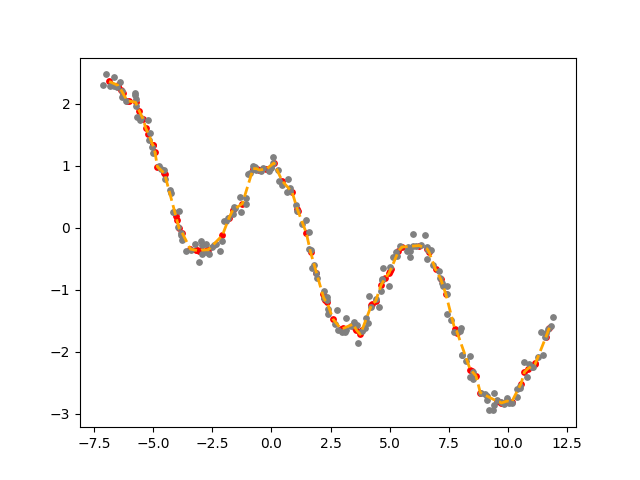
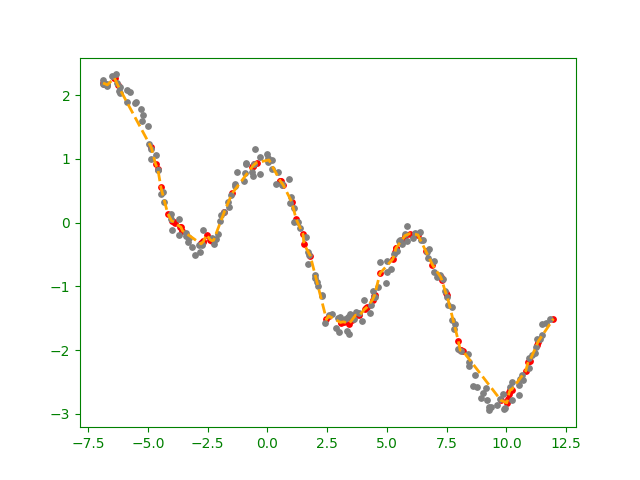
New colors

diff --git a/spline.py b/spline.py
@@ -1,9 +1,12 @@
 from scipy.interpolate import CubicSpline
+from matplotlib.pyplot import figure
 from numpy.random import normal
 import matplotlib.pyplot as plt
 import numpy as np
 
-xt = np.arange(-7, 7, 0.05) # true x coordinates
+figure(figsize = (12, 8), dpi = 100)
+
+xt = np.arange(-3, 3, 0.1) # true x coordinates
 n = len(xt)
 magnitude = 0.05
 x = np.sort(xt + normal(size = n, scale = magnitude)) # add noise and SORT
@@ -13,10 +16,13 @@ st = CubicSpline(xt, yt) # fit a cubic spline to the pure data
 s = CubicSpline(x, y) # fit a cubic spline to the noisy data
 
 plt.rcParams.update({'text.color': 'green',
+                     'xtick.color': 'green',
+                     'ytick.color': 'green',
                      'axes.labelcolor': 'green',
+                     'axes.edgecolor': 'green',
                      'axes.facecolor':  'none' })
 plt.scatter(x, y, c = 'red') # data
-plt.plot(xt, yt, c = 'blue', linestyle = 'dashed') # pure model
-plt.plot(x, st(x), c = 'green', linewidth = 2) # clean spline
-plt.plot(xt, s(xt), c = 'black', linewidth = 1) # noisy spline
+plt.plot(xt, yt, c = 'gray', linestyle = 'dashed') # pure model
+plt.plot(x, st(x), c = 'orange', linewidth = 2) # clean spline
+plt.plot(xt, s(xt), c = 'blue', linewidth = 1) # noisy spline
 plt.savefig('spline.png', transparent = True)

diff --git a/bands.py b/bands.py
@@ -60,11 +60,14 @@ for r in range(b):
         high[i] = max(high[i], prediction)
 
 plt.rcParams.update({'text.color': 'green',
+                     'xtick.color': 'green',
+                     'ytick.color': 'green',
                      'axes.labelcolor': 'green',
-                     'axes.facecolor':  'none' })        
+                     'axes.edgecolor': 'green',
+                     'axes.facecolor':  'none' })
 plt.xlabel('Input index')
 plt.ylabel('Prediction bands')
-plt.vlines(pos, low, high, zorder = 1) # behind
+plt.vlines(pos, low, high, colors = 'gray', zorder = 1) # behind
 plt.scatter(pos, low, c = 'red', zorder = 2) # front
 plt.scatter(pos, high, c = 'blue', zorder = 2) # front
 plt.savefig('bands.png', transparent = True)

diff --git a/natural.py b/natural.py
@@ -12,9 +12,12 @@ s = CubicSpline(x, y) # as before
 ns = CubicSpline(x, y, bc_type = 'natural') # fit a NATURAL cubic spline
 
 plt.rcParams.update({'text.color': 'green',
+                     'xtick.color': 'green',
+                     'ytick.color': 'green',
                      'axes.labelcolor': 'green',
+                     'axes.edgecolor': 'green',
                      'axes.facecolor':  'none' })
 plt.scatter(x, y, c = 'gray', s = 10) # data
 plt.plot(xt, s(xt), linestyle = 'dashed', c = 'red') # regular spline (defaults to 'not-a-knot')
-plt.plot(xt, ns(xt), c = 'black') # natural spline
+plt.plot(xt, ns(xt), c = 'orange') # natural spline
 plt.savefig('natural.png', transparent = True)

diff --git a/kernel.py b/kernel.py
@@ -41,7 +41,10 @@ for point in xq:
         yq.append(None) # no value obtained for this point (omit in drawing)
 
 plt.rcParams.update({'text.color': 'green',
+                     'xtick.color': 'green',
+                     'ytick.color': 'green',
                      'axes.labelcolor': 'green',
+                     'axes.edgecolor': 'green',
                      'axes.facecolor':  'none' })
 plt.plot(xq, yq, c = 'orange', linewidth = 2, linestyle = 'dashed') # model
 plt.scatter(xq, yq, c = 'red', s = 15) # query points

diff --git a/knn2.py b/knn2.py
@@ -29,7 +29,10 @@ for point in xq: # local models
     yq.append(sum(ny) / k)
 
 plt.rcParams.update({'text.color': 'green',
+                     'xtick.color': 'green',
+                     'ytick.color': 'green',
                      'axes.labelcolor': 'green',
+                     'axes.edgecolor': 'green',
                      'axes.facecolor':  'none' })
 plt.plot(xq, yq, c = 'orange', linewidth = 2, linestyle = 'dashed') # model
 plt.scatter(xq, yq, c = 'red', s = 15) # query points

diff --git a/params.py b/params.py
@@ -1,0 +1,6 @@
+plt.rcParams.update({'text.color': 'green',
+                     'xtick.color': 'green',
+                     'ytick.color': 'green',
+                     'axes.labelcolor': 'green',
+                     'axes.edgecolor': 'green',
+                     'axes.facecolor':  'none' })
